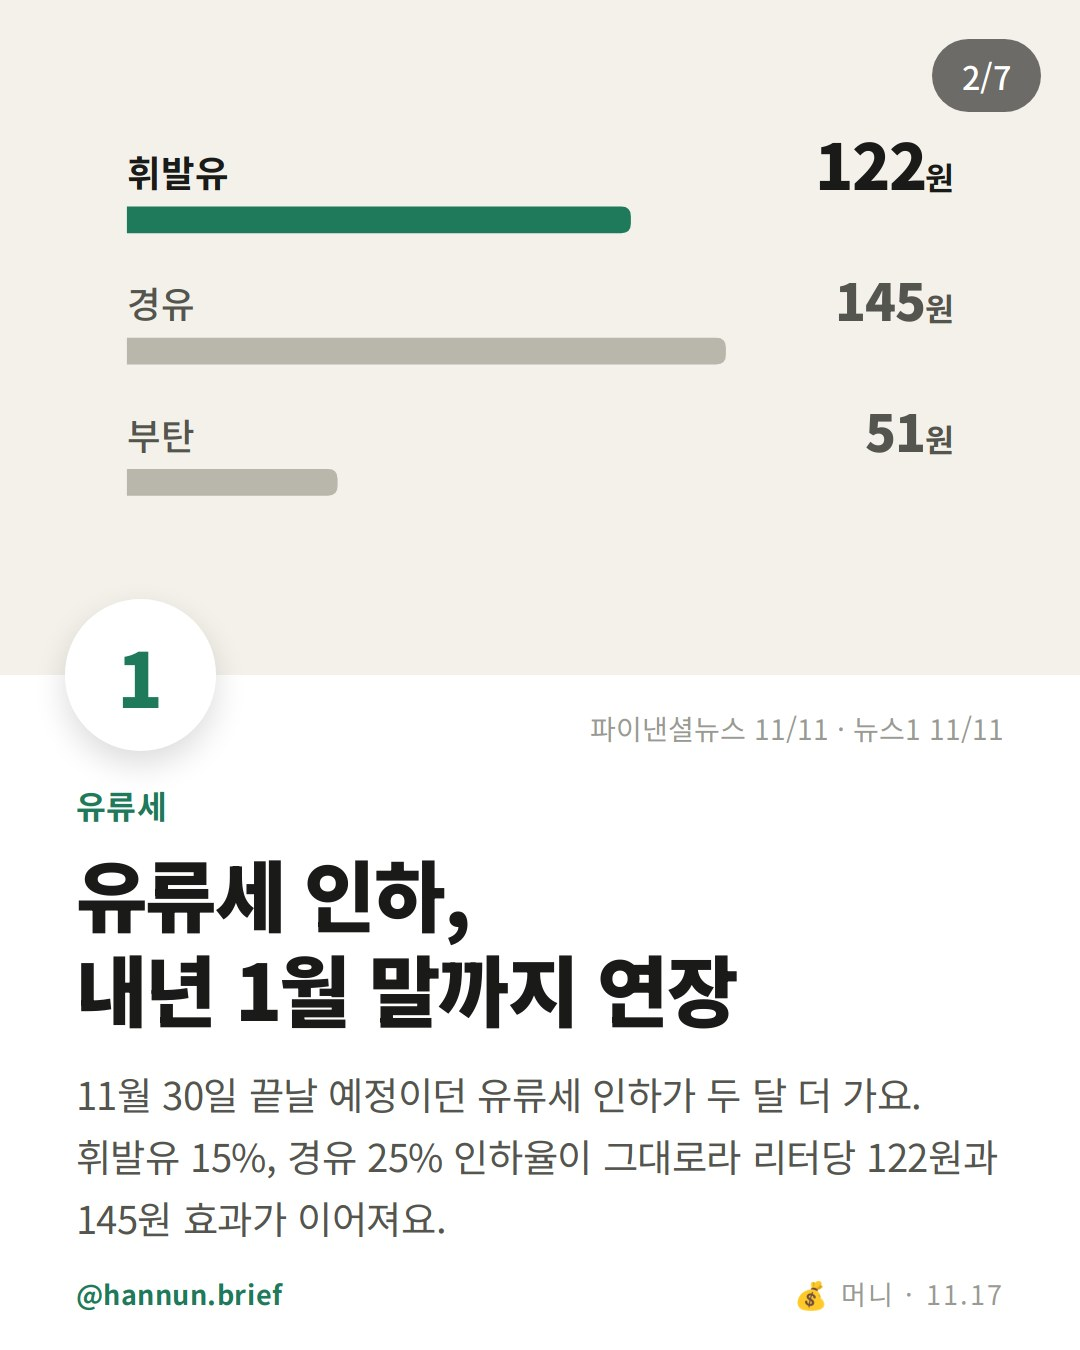
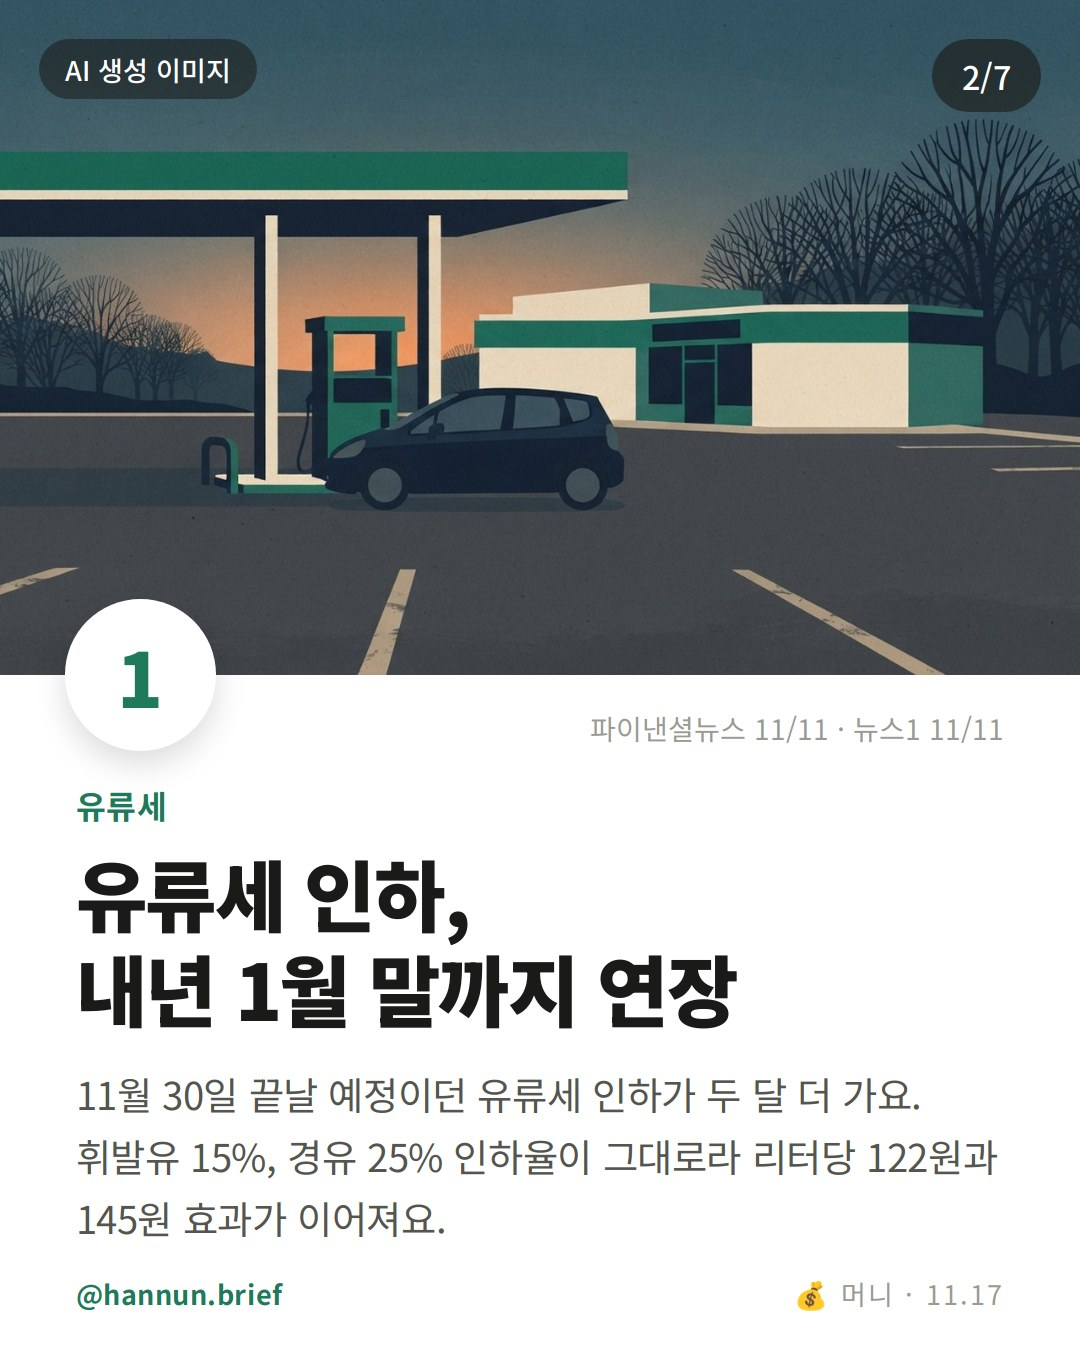
chore: update manifest.json, localize images, add audio, card images, reels [skip ci]

diff --git a/2026-11-17_money-brief.html b/2026-11-17_money-brief.html
@@ -169,6 +169,7 @@
       <p class="cn-bars" data-hl="1" data-unit="원">휘발유:122|경유:145|부탄:51</p>
       <p class="cn-when" data-label="연장 끝">~1/31</p>
       <p class="cn-img">A quiet gas station at dusk with a single compact car at the pump, winter trees in the background, flat illustration, no people, no text, no numbers, no logos</p>
+      <img class="cn-gen" loading="lazy" src="img/gen/2026-11/2026-11-17_money-brief/01.jpg" alt="AI 생성 일러스트">
     </div>
   </article>
 
@@ -200,6 +201,7 @@
       <p class="cn-bars" data-hl="3" data-unit="%">시중은행 최고 우대 평균:3.6|새마을금고 평균:3.70|저축은행 평균:3.90</p>
       <p class="cn-num">4.15%|저축은행 최고 기본금리(11/13)</p>
       <p class="cn-img">A small ceramic piggy bank beside a stack of coins and a desk calendar on a wooden shelf, soft morning light, flat illustration, no people, no text, no numbers, no logos</p>
+      <img class="cn-gen" loading="lazy" src="img/gen/2026-11/2026-11-17_money-brief/02.jpg" alt="AI 생성 일러스트">
     </div>
   </article>
 
@@ -231,6 +233,7 @@
       <p class="cn-steps" data-now="3">8월 목표 3.0%|10월 잔액 1,203조|11/2 하나 재개|1월 신한 추진</p>
       <p class="cn-num">+5조 원|10월 은행 가계대출 증가</p>
       <p class="cn-img">A row of house-shaped paper models on a desk next to a closed laptop and a cup of coffee, calm afternoon light, flat illustration, no people, no text, no numbers, no logos</p>
+      <img class="cn-gen" loading="lazy" src="img/gen/2026-11/2026-11-17_money-brief/03.jpg" alt="AI 생성 일러스트">
     </div>
   </article>
 
